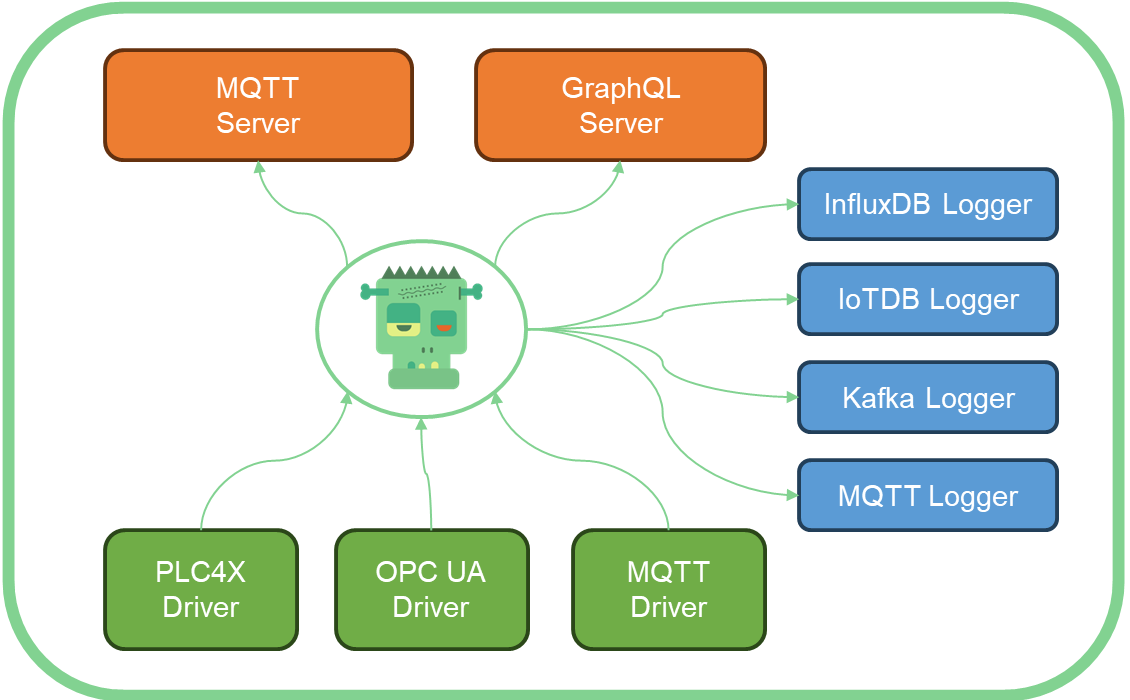
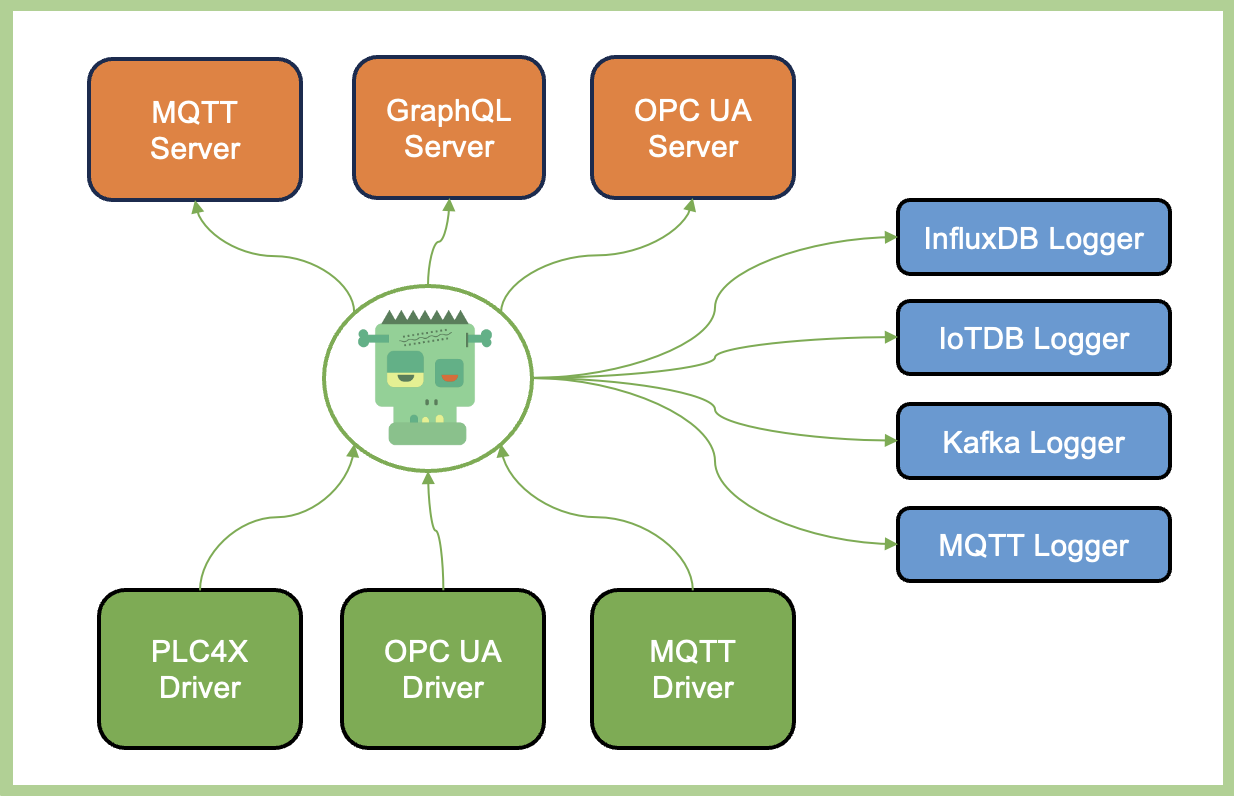
Update readme.md

diff --git a/README.md b/README.md
@@ -1,6 +1,6 @@
 # Frankenstein Automation Gateway
 
-Connect one or more OPC UA servers or PLC4X devices to the gateway and access the data with a GraphQL or a MQTT client. The Gateway additionally offers functionality to log value changes from OPC UA, MQTT and PLC4X in a range of databases and platforms, including InfluxDB, IoTDB, Kafka, among others. Tested with up to 250000 value changes per second on comodity hardware.  
+Connect one or more OPC UA servers, PLC4X devices or MQTT brokers to the gateway and access the data with a GraphQL, a MQTT, or an OPC UA client. The Gateway additionally offers functionality to log value changes from OPC UA, MQTT and PLC4X in a range of databases and platforms, including InfluxDB, IoTDB, Kafka, among others. Tested with up to 250000 value changes per second on comodity hardware.  
 
 The Gateway passes values through, it does not store data internally. The MQTT Broker is not a fully complient MQTT Broker. It does not keep values in memory. If you subscribe to a virtual MQTT-Topic, which must follow certain rules, then it will connect to the tags in OPC UA or PLC4X and will pass the values to the client. If multiple clients subscribe to the same virtual topic, then only one subscription to the device is made and the Gateway will distribute the values to all the clients.  
 
@@ -310,7 +310,7 @@ You have to build the program before with gradle. Then you can use the shell scr
 > C:\Workspace\automation-gateway\docker\examples\hazelcast> docker compose up -d  
 
 # Version History
-- [1.27 Add target option to MQTT Logger for UNS](#127-add-target-option-to-mqtt-logger)
+- [1.27 Add target option to MQTT Logger for UNS](#127-add-target-option-to-mqtt-logger-for-uns)
 - [1.26 Reactivated Neo4j Logger](#126-reactivated-neo4j-logger)
 - [1.25 MQTT Driver Custom JSON Format](#125-mqtt-driver-custom-json-format)
 - [1.24 Added OPC UA server](#124-added-opc-ua-server)
